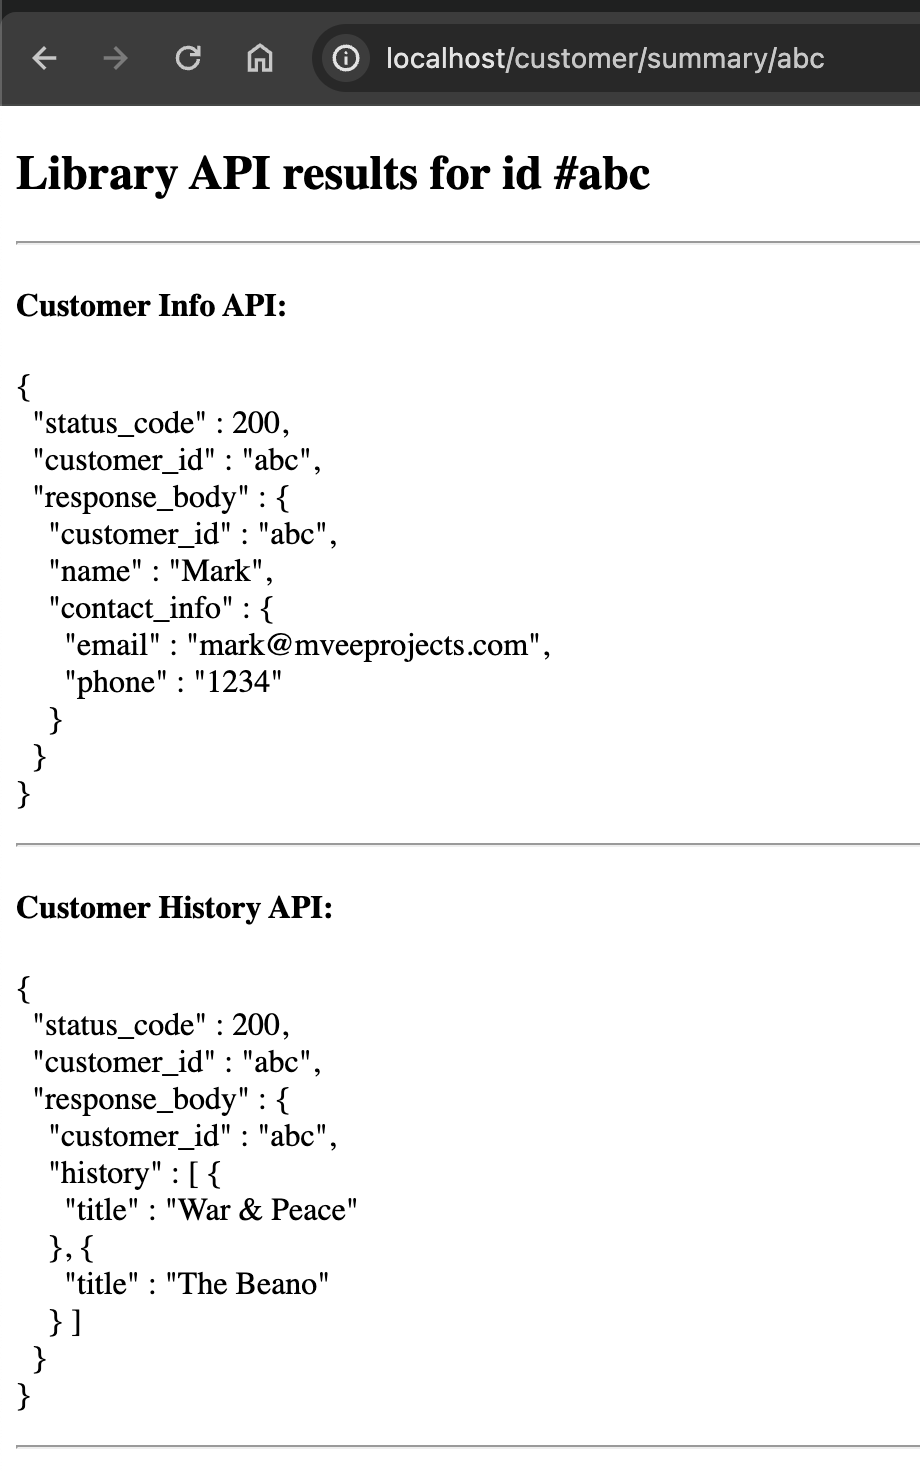
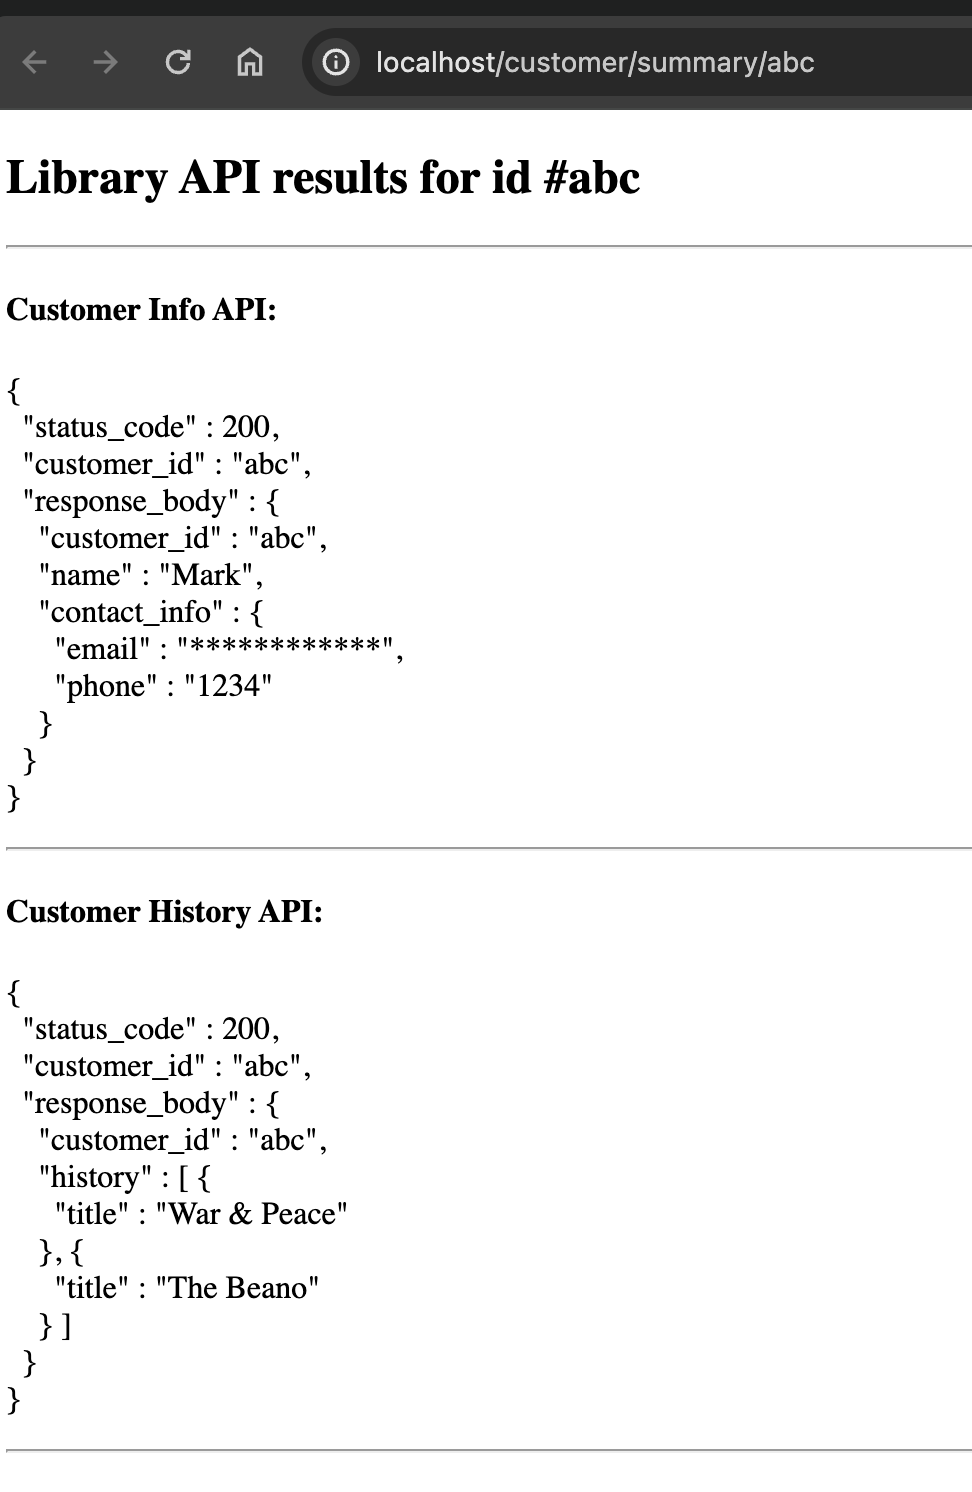
Added obfuscation for email address.

diff --git a/src/main/java/org/mveeprojects/services/ProxyService.java b/src/main/java/org/mveeprojects/services/ProxyService.java
@@ -3,6 +3,7 @@ package org.mveeprojects.services;
 import com.fasterxml.jackson.databind.JsonNode;
 import com.fasterxml.jackson.databind.ObjectMapper;
 import com.fasterxml.jackson.databind.node.ObjectNode;
+import com.fasterxml.jackson.databind.node.TextNode;
 import org.mveeprojects.model.ConnectionIssue;
 import org.mveeprojects.model.HttpResult;
 import org.mveeprojects.model.NotFound;
@@ -80,6 +81,14 @@ public class ProxyService {
         try {
             ObjectNode rootNode = mapper.createObjectNode();
             JsonNode responseBody = mapper.readTree(httpResult.getResponseBody());
+
+            if (responseBody.findValue("email") != null) {
+                JsonNode contactInfoNode = responseBody.path("contact_info");
+                ((ObjectNode) contactInfoNode).set("email", new TextNode("************"));
+                String updatedJson = mapper.writeValueAsString(responseBody);
+                responseBody = mapper.readTree(updatedJson);
+            }
+
             rootNode.put("status_code", httpResult.getStatusCode());
             rootNode.put("customer_id", httpResult.getCustomerId());
             rootNode.set("response_body", responseBody);

diff --git a/README.md b/README.md
@@ -59,6 +59,8 @@ Mappings are stored as JSON under the [wiremock/mappings](./wiremock/mappings) d
   * [Spring Boot Docker](https://spring.io/guides/topicals/spring-boot-docker)
 * Java HTTP Client
   * https://www.baeldung.com/java-9-http-client
+* Baeldung
+  * [Removing JSON Elements With Jackson](https://www.baeldung.com/java-jackson-remove-json-elements)
 * Miscellaneous
   * [SO: Keeping JSON whitepaces (pretty printing) in Thymeleaf](https://stackoverflow.com/questions/62822117/displaying-pretty-printed-json-from-variable-with-java-spring-boot-thymeleaf)
   * [SO: Create JSON object using Jackson in Java](https://stackoverflow.com/questions/40967921/create-json-object-using-jackson-in-java)
@@ -75,7 +77,7 @@ Must-haves:
 * [ ] Add basic auth to external API call.
 * [ ] Create a simple UI using Thymeleaf.
   * [ ] Text box and button for user input instead of path variables on frontend.
-* [ ] Add PII to external API response JSON and obfuscate before sending in response to the frontend.
+* [x] Add email to external API response JSON and obfuscate before sending in response to the frontend.
 
 Nice-to-haves:
 * [ ] Add equivalent curl (without auth) to the UI.
